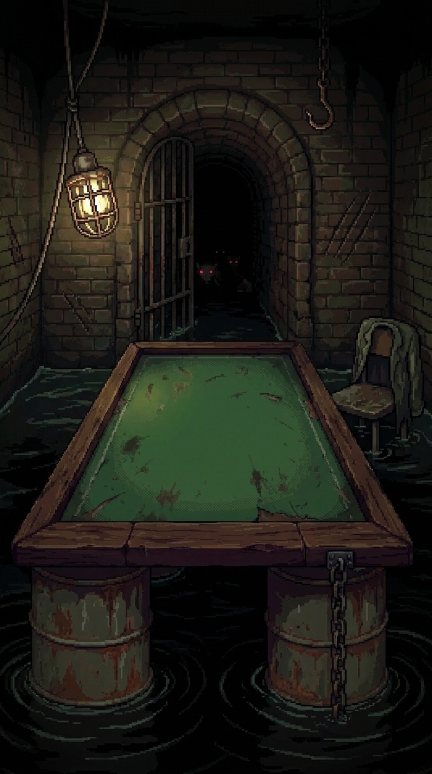
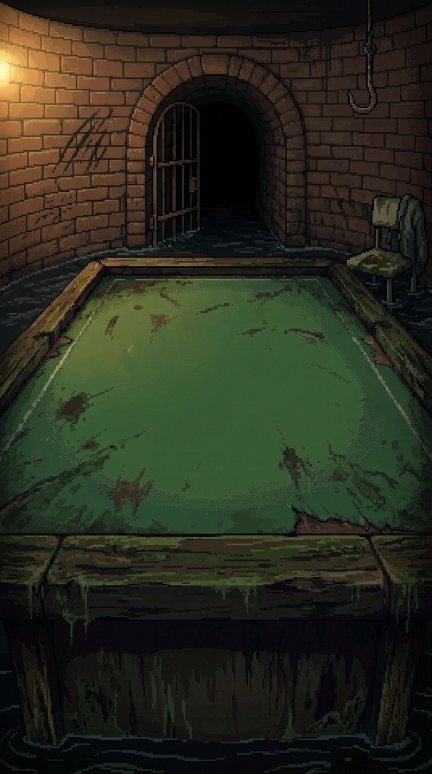
Dirty Deal: new Drain table and swinging lamp, rat runs across the felt edge
Claude-Session: https://claude.ai/code/session_01KMoF4bVcjiTSZnB8k8vwUa

diff --git a/dirtydeal/index.html b/dirtydeal/index.html
@@ -80,6 +80,10 @@ button{font-family:var(--display);cursor:pointer;background:none;border:0;paddin
 .rip{width:6%;height:1.4%;border:1px solid rgba(190,210,200,.55);border-radius:50%;translate:-50% -50%}
 .splash{width:2.4%;height:.6%;border:1px solid rgba(200,215,235,.6);border-radius:50%;translate:-50% -50%}
 .mote{width:2px;height:2px;background:rgba(255,230,170,.75);border-radius:50%}
+.lamp{width:15%;height:31%;transform-origin:50% 0;animation:lampsw 3.8s ease-in-out infinite alternate;z-index:1}
+.lamp img{width:100%;height:100%;object-fit:contain;object-position:50% 0;image-rendering:pixelated;display:block}
+.lamp i{position:absolute;left:50%;top:80%;width:520%;aspect-ratio:1;translate:-50% -50%;background:radial-gradient(circle,rgba(255,220,140,.5),rgba(255,190,100,.14) 30%,transparent 62%);mix-blend-mode:screen;animation:bulb 5.3s infinite steps(1)}
+@keyframes lampsw{from{rotate:-7deg}to{rotate:6deg}}
 .eyes{width:1.8%;height:.5%;display:flex;justify-content:space-between;animation:eyes 7s infinite steps(1)}
 .eyes::before,.eyes::after{content:"";width:28%;height:100%;background:#ff3020;box-shadow:0 0 4px 1px rgba(255,40,20,.8)}
 @keyframes eyes{0%{opacity:1}31%{opacity:0}33%{opacity:1}60%{opacity:1}61%{opacity:0}80%{opacity:0}81%{opacity:1}}
@@ -588,7 +592,7 @@ $('edit').onclick=()=>{$('endScreen').hidden=true;openMenu(2)};
 /* ---------- profile ---------- */
 const ARENAS=[
  {t:0,n:'THE BACK ROOM',who:'The Dealer',pre:'dealer',bg:'table.jpg',tw:'',g:{tilt:38,shift:0,r1w:18,r1t:35,r1:[20.8,41,61.2],r0w:21.5,r0t:47.5,r0:[13.9,39.25,64.6],dt:12.6,dh:23.8,gl:[22.1,13.8]}},
- {t:100,n:'THE DRAIN',who:'The Croc',pre:'d2_',bg:'table2.jpg',tw:'Poison lasts 1 turn longer down here.',g:{tilt:52,shift:0,r1w:16.5,r1t:41.86,r1:[22.11,42.93,63.75],r0w:19,r0t:50.52,r0:[18.23,41.33,64.44],dt:21.6,dh:23.6,gl:[19.5,25.4]}},
+ {t:100,n:'THE DRAIN',who:'The Croc',pre:'d2_',bg:'table2.jpg',tw:'Poison lasts 1 turn longer down here.',g:{tilt:38,shift:0,r1w:18,r1t:35,r1:[20.8,41,61.2],r0w:21.5,r0t:47.5,r0:[13.9,39.25,64.6],dt:12.4,dh:23.8,gl:[14,24]}},
  {t:250,n:'THE ROOFTOP',who:'The Collector',pre:'d3_',bg:'table3.jpg',tw:'Lightning may strike a random card for 3.',g:{tilt:52,shift:-4.8,r1w:15.5,r1t:42.37,r1:[25.58,42.81,60.03],r0w:19,r0t:50.08,r0:[19.72,41.56,63.41],dt:25.8,dh:18.4,gl:[15,16.3]}},
  {t:500,n:'THE VAULT',who:'The Owner',pre:'d4_',bg:'table4.jpg',tw:"The Owner's cards start with +1 shield.",g:{tilt:38,shift:0,r1w:18,r1t:35.23,r1:[21,41.77,62.54],r0w:21.5,r0t:47.78,r0:[13.23,39.61,65.98],dt:14.4,dh:21.2,gl:[22.8,14.2]}}];
 let TILT=38;
@@ -914,7 +918,7 @@ const AMB=(()=>{
     k.push({left:(dir>0?108:-12)+'%',top:y1+'%'});
     e.animate(k,{duration:dur,easing:'linear'}).finished.then(()=>e.remove()).catch(()=>e.remove())}
   async function ratRun(){
-    const dir=Math.random()<.5?1:-1,e=el('spr',dir>0?-14:104,70.6);e.style.width='12%';e.style.aspectRatio='1';e.style.backgroundImage='url(assets/a_rat.png)';e.style.setProperty('--fd','.2s');
+    const dir=Math.random()<.5?1:-1,e=el('spr',dir>0?-14:104,59.6);e.style.width='12%';e.style.position='absolute';e.style.zIndex=2;e.style.pointerEvents='none';$('stage').appendChild(e);e.style.aspectRatio='1';e.style.backgroundImage='url(assets/a_rat.png)';e.style.setProperty('--fd','.2s');
     if(dir<0)e.style.transform='scaleX(-1)';
     const X=v=>dir>0?v:90-v;let x=-14;
     const dash=(to,ms)=>{const a=e.animate([{left:X(x)+'%'},{left:X(to)+'%'}],{duration:ms,easing:'cubic-bezier(.3,0,.6,1)',fill:'forwards'});x=to;e.style.animationPlayState='running';return a.finished};
@@ -926,14 +930,15 @@ const AMB=(()=>{
   const T=[];const every=(ms,fn,jit=0)=>{const go=()=>{T.push(setTimeout(()=>{if(live())fn();go()},ms+Math.random()*jit))};go()};
   function set(k){if(k===cur)return;cur=k;T.forEach(clearTimeout);T.length=0;box().innerHTML='';
     document.querySelectorAll('#dealerWrap .orb,#stage>.spr').forEach(e=>e.remove());
-    const gl=$('glow');gl.classList.toggle('sway',k===1||k===2);
+    const gl=$('glow');gl.classList.toggle('sway',k===2);
     if(k===0){flies(22.5,13.5,2,14);
       every(15000,ratRun,9000)}
-    if(k===1){el('eyes',49.2,23.2);const e2=el('eyes e2',55.6,25.4);e2.style.width='1.4%';
+    if(k===1){el('eyes',51,12.6);const e2=el('eyes e2',57,14);e2.style.width='1.4%';
+      const L=el('lamp',7,-3,'<img src="assets/lamp2.png" alt=""><i></i>');
       flies(55,10,3,12,$('dealerWrap'));
-      const src=[[8.5,21,46],[93,24,49.5],[63,9,30]];
-      every(1600,()=>{const s=src[Math.floor(Math.random()*src.length)];drip(s[0],s[1],s[2],s[0]!==63)},1600);
-      every(2800,()=>ripple(15+Math.random()*75,84+Math.random()*12,true),2200)}
+      const src=[[38,10,30.5],[63,10,30],[93,14,37.5],[3,20,36]];
+      every(1600,()=>{const s=src[Math.floor(Math.random()*src.length)];drip(s[0],s[1],s[2],true)},1600);
+      every(3200,()=>ripple(Math.random()<.5?4+Math.random()*10:86+Math.random()*10,33.5+Math.random()*4,true),2600)}
     if(k===2){el('neonA',82.6,9.6);
       const pud=[[10,60],[54,50.5],[80,47],[93,63],[30,92],[72,90]];
       every(140,()=>{const p=pud[Math.floor(Math.random()*pud.length)];splash(p[0]+(Math.random()-.5)*6,p[1]+(Math.random()-.5)*2)},120);

diff --git a/dirtydeal/sw.js b/dirtydeal/sw.js
@@ -1,5 +1,5 @@
 /* Dirty Deal offline cache. A new upload changes VERSION, so phones fetch the new build. */
-const VERSION='dd-4b3f57ee28';
+const VERSION='dd-bdef7c686e';
 const FILES=["./", "assets/a_paper.png", "assets/a_rat.png", "assets/alley.jpg", "assets/back.png", "assets/c_bellhop.png", "assets/c_blackhole.png", "assets/c_clown.png", "assets/c_coinflip.png", "assets/c_dice.png", "assets/c_fingers.png", "assets/c_gator.png", "assets/c_golem.png", "assets/c_grandma.png", "assets/c_gremlin.png", "assets/c_jukebox.png", "assets/c_karaoke.png", "assets/c_lastcall.png", "assets/c_leech.png", "assets/c_mafioso.png", "assets/c_mannequin.png", "assets/c_pigeon.png", "assets/c_rabbit.png", "assets/c_rat.png", "assets/c_ratking.png", "assets/c_roach.png", "assets/c_sandwich.png", "assets/c_smell.png", "assets/c_toilet.png", "assets/c_vending.png", "assets/case0.png", "assets/case0o.png", "assets/case1.png", "assets/case1o.png", "assets/case2.png", "assets/case2o.png", "assets/case3.png", "assets/case3o.png", "assets/chip_b.png", "assets/chip_g.png", "assets/chip_k.png", "assets/chip_r.png", "assets/chips.png", "assets/coins.png", "assets/d2_0.png", "assets/d2_1.png", "assets/d2_2.png", "assets/d2_3.png", "assets/d3_0.png", "assets/d3_1.png", "assets/d3_2.png", "assets/d3_3.png", "assets/d4_0.png", "assets/d4_1.png", "assets/d4_2.png", "assets/d4_3.png", "assets/dealer0.png", "assets/dealer1.png", "assets/dealer2.png", "assets/dealer3.png", "assets/deckbg.jpg", "assets/f_common.png", "assets/f_legend.png", "assets/f_spell.png", "assets/f_token.png", "assets/hand.png", "assets/i_events.png", "assets/i_friends.png", "assets/i_gang.png", "assets/i_road.png", "assets/i_rules.png", "assets/i_settings.png", "assets/icon.jpg", "assets/lamp2.png", "assets/logo.png", "assets/lose.jpg", "assets/m_a1.mp3", "assets/m_a2.mp3", "assets/m_a3.mp3", "assets/m_a4.mp3", "assets/m_btn_battle.png", "assets/m_btn_battle_d.png", "assets/m_btn_upgrade.png", "assets/m_h_battle.png", "assets/m_h_cards.png", "assets/m_h_shop.png", "assets/m_i_chips.png", "assets/m_i_clock.png", "assets/m_i_dot.png", "assets/m_i_level.png", "assets/m_i_trophy.png", "assets/m_i_wings.png", "assets/m_i_x.png", "assets/m_menu.mp3", "assets/m_n_battle.png", "assets/m_n_battle2.png", "assets/m_n_cards.png", "assets/m_n_shop.png", "assets/m_navbar.png", "assets/m_panel.png", "assets/m_topbar.png", "assets/m_win.mp3", "assets/pointer.png", "assets/r_rim.png", "assets/r_roach.png", "assets/r_table.jpg", "assets/r_tur.png", "assets/shop.jpg", "assets/table.jpg", "assets/table2.jpg", "assets/table3.jpg", "assets/table4.jpg", "assets/u_armor.png", "assets/u_badge.png", "assets/u_bar_e.png", "assets/u_bar_g.png", "assets/u_bar_r.png", "assets/u_coin.png", "assets/u_fight.png", "assets/u_fight_d.png", "assets/u_fist.png", "assets/u_gum.png", "assets/u_lock.png", "assets/u_ring.png", "assets/u_shield.png", "assets/u_sit.png", "assets/u_sit_d.png", "assets/u_skull.png", "assets/v_boom.png", "assets/v_coins.png", "assets/v_dust.png", "assets/v_gum.png", "assets/v_hole.png", "assets/v_honk.png", "assets/v_poison.png", "assets/v_shatter.png", "assets/v_spark.png", "assets/wheel.png", "assets/win.jpg", "fonts/silkscreen-latin-400-normal.woff2", "fonts/silkscreen-latin-700-normal.woff2", "fonts/vt323-latin-400-normal.woff2", "icons/icon-180.png", "icons/icon-192.png", "icons/icon-512.png", "index.html", "manifest.webmanifest"];
 self.addEventListener('install',e=>{e.waitUntil(caches.open(VERSION).then(c=>c.addAll(FILES)).then(()=>self.skipWaiting()))});
 self.addEventListener('activate',e=>{e.waitUntil(caches.keys().then(k=>Promise.all(k.filter(x=>x!==VERSION).map(x=>caches.delete(x)))).then(()=>self.clients.claim()))});
